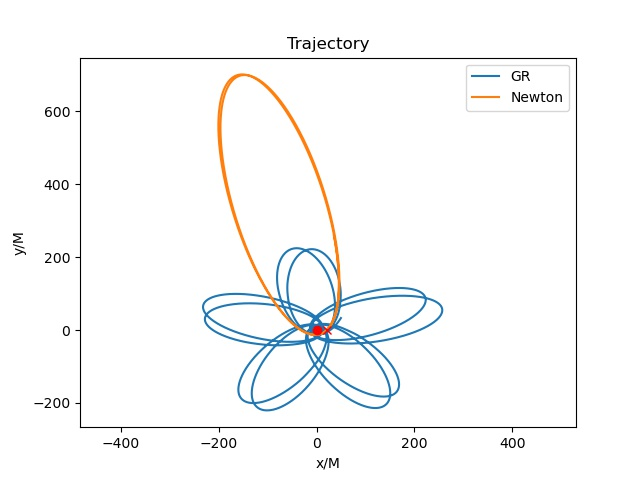
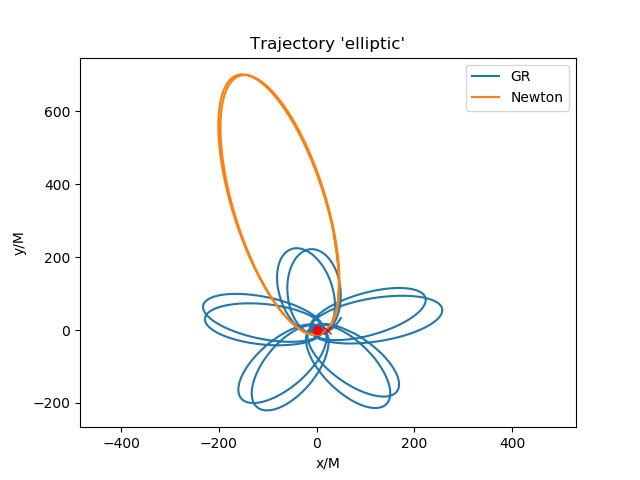
Updated plots

diff --git a/BH_geodesics.py b/BH_geodesics.py
@@ -139,7 +139,7 @@ def plot(vals, sol, sol_newton):
 	plt.legend()
 
 	plt.figure()
-	plt.title("Trajectory")
+	plt.title("Trajectory '{}'".format(vals['name']))
 	plt.plot(x, y, label = label)
 	plt.xlabel("x/M")
 	plt.ylabel("y/M")
